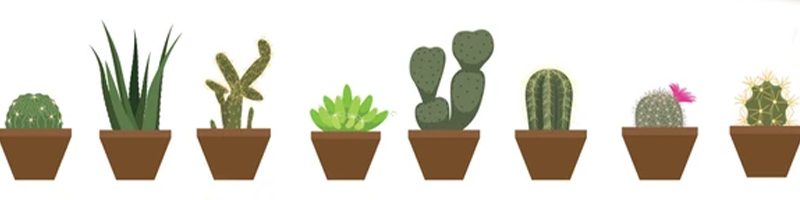
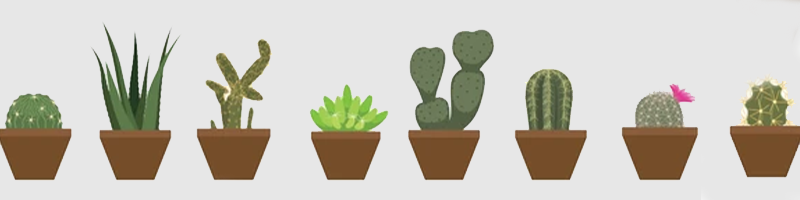
added themes; adjustet succulent photo; adjusted note preview heights

diff --git a/public/js/makeCard.js b/public/js/makeCard.js
@@ -47,29 +47,33 @@ const setSucculent = (e) => {
 }
 $('#succulents').click(setSucculent);
 
-// ** Daemon: Remove Current Styling and Apply Daemon Class and Image
-$('#daemon').click((e) => {
-    e.preventDefault();
+// ** Dream Builder: Remove Current Styling and Apply Dream Builder Class and Image
+const setDreamBuilder = (e) => {
+    // e.preventDefault();
     // Change Color
     $('#change').removeClass(currentClass);
-    $('#change').addClass("note-daemon");
-    currentClass = "note-daemon";
+    $('#change').addClass("note-dreamBuilder");
+    currentClass = "note-dreamBuilder";
     // Change Image
-    $('.img').attr('src', imgPath + 'daemon-02.png');
-    dbStyle = ["note-daemon", "daemon-02.png"];
-});
+    $('.img').attr('src', imgPath + 'dreamBuilder-01.png');
+    dbStyle = ["note-dreamBuilder", "dreamBuilder-01.png"];
+    setLocal();
+}
+$('#dreamBuilder').click(setDreamBuilder);
 
 // ** Age of Empire: Remove Current Styling and Apply Age of Empire Class and Image
-$('#zodiac').click((e) => {
+const setFieryAries = (e) => {
     e.preventDefault();
     // Change Color
     $('#change').removeClass(currentClass);
-    $('#change').addClass("note-zodiac");
-    currentClass = "note-zodiac";
+    $('#change').addClass("note-fieryAries");
+    currentClass = "note-fieryAries";
     // Change Image
-    $('.img').attr('src', imgPath + 'zodiac-01.png');
-    dbStyle = ["note-zodiac", "zodiac-01.png"];
-});
+    $('.img').attr('src', imgPath + 'fieryAries-01.png');
+    dbStyle = ["note-fieryAries", "fieryAries-01.png"];
+    setLocal();
+}
+$('#fieryAries').click(setFieryAries);
 
 // * Submit Listener: Validate textareas; Make POST Req; Handle Success and Fail
 $('#submit').click(async e => {
@@ -136,6 +140,12 @@ function checkLocal() {
         case 'note-succulents':
             console.log('hits');
             setSucculent();
+            break;
+        case 'note-dreamBuilder':
+            setDreamBuilder();
+            break;
+        case 'note-fieryAries':
+            setFieryAries();
             break;
     }
     $('#draftMsg').text('Draft Found!');

diff --git a/public/make-card.html b/public/make-card.html
@@ -38,13 +38,13 @@
             </article>
         </section>
         <section class='row' id='makeCard-contain'>
-            <article class="col-4 note-card note-fall" id="change">
+            <article class="col-4 note-card note-preview note-fall" id="change">
                 <div class="WriteCard-Header">
                     <h2>Text Color</h2>
                     <p id="draftMsg"></p>
                 </div>
                 <textarea class="note text-height" placeholder="Write your note here!"></textarea>
-                <textarea class="signature text-height" placeholder="Write your name here!"></textarea>
+                <textarea class="signature" placeholder="Write your name here!"></textarea>
                 <img class="img" src="/img/card/Fall-01.png">
             </article>
             <article class="col-4 note-card note-settings">
@@ -52,8 +52,8 @@
                     <h2>Choose a Theme!</h2>
                     <button class="button" id="fall"> Fall </button>
                     <button class="button" id="succulents"> Succulents </button>
-                    <button class="button" id="daemon"> Daemon </button>
-                    <button class="button" id="zodiac"> Zodiac </button>
+                    <button class="button" id="dreamBuilder"> Dream Builder </button>
+                    <button class="button" id="fieryAries"> Fiery Aries </button>
                 </div>
             </article>
         </section>

diff --git a/public/css/card.css b/public/css/card.css
@@ -105,7 +105,9 @@ a {
     border-radius: 8px;
     font: 3vmin/1.0 Serif;
 }
-
+    .note-preview {
+        max-height: none;
+    }
 
 /* Note Styling */
 
@@ -162,23 +164,23 @@ a {
     color: rgb(245, 239, 66)
 }
 
-/* Daemon */
-.note-daemon {
-    background-color: rgba(204, 150, 14, 0.9);
-    color: rgb(122, 13, 1);
+/* Dream Builder */
+.note-dreamBuilder {
+    background-color: rgba(75, 115, 145, 0.9);
+    color: rgb(255, 255, 255);
 }
 
-.note-daemon-solid {
-    background-color: rgba(204, 150, 14, 1.0);
-    color: rgb(122, 13, 1);
+.note-dreamBuilder-solid {
+    background-color: rgba(75, 115, 145, 1.0);
+    color: rgb(255, 255, 255);
 }
-/* Zodiac */
-.note-zodiac {
+/* Fiery Aries */
+.note-fieryAries {
     background-color: rgba(5, 5, 5, 0.8);
     color: white
 }
 
-.note-zodiac-solid {
+.note-fieryAries-solid {
     background-color: rgba(5, 5, 5, 1.0);
     color: white
 }
